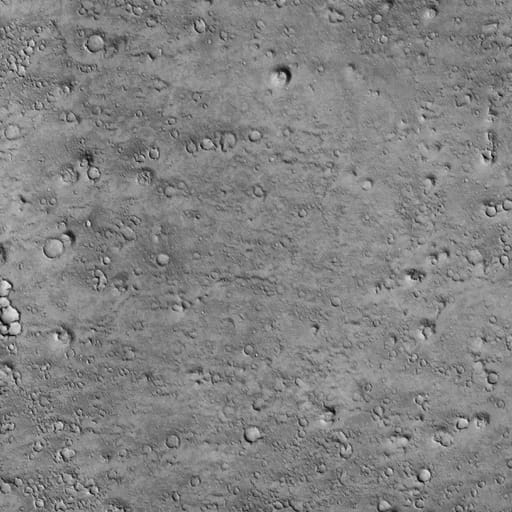
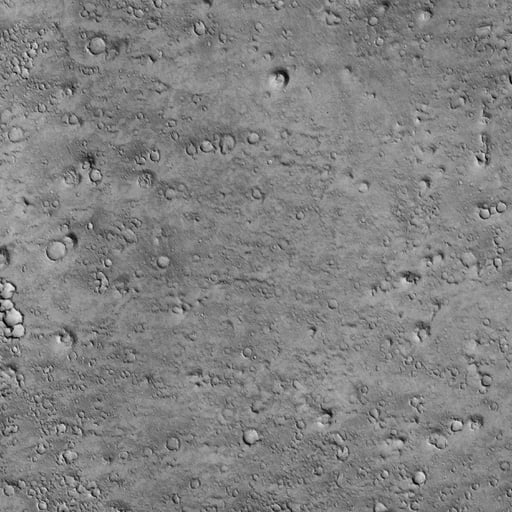
fix(mars): Beagle 2 site point and patch on the Bridges et al. 2017 position, CTX registered to it
Site point and descent profile 11.53 N 90.43 E -> 11.52879 N 90.43139 E (Bridges et al. 2017, Royal
Society Open Science 4:170785; the old point was 107 m away). HiRISE ESP_040363_1915 re-cut there;
the lander is not resolved in that product (nothing distinct at the centre). Regional CTX re-cut
(E088_N08) 140 m north / 35 m west of the site to register with the patch, residual 0 m.
CTX provenance titles say where the window was cut and that it is shifted (no 'traverse midpoint'
for sites without a traverse).

Claude-Session: https://claude.ai/code/session_01DJqN6rY9HUnN1X9JkpPWnW

diff --git a/scripts/hotspots/provenance.ts b/scripts/hotspots/provenance.ts
@@ -117,16 +117,21 @@ export function buildCtxMosaicProvenanceEntry(input: {
   centerLon: number;
   /** 'traverse-midpoint': rover crops are centred on the arc-length midpoint of the traverse (#360), not the site. */
   centreOn?: 'traverse-midpoint';
+  /** The window is cut this far north / east of the nominal centre so it registers with the HiRISE patch. */
+  ctxShiftM?: { north: number; east: number };
 }): ProvenanceEntry {
   const provenancePath = input.outputPath.replace(/^static/, '');
   const id = createHash('sha256').update(provenancePath).digest('hex').slice(0, 16);
   const midpoint = input.centreOn === 'traverse-midpoint';
+  const shifted = input.ctxShiftM
+    ? `, cut ${input.ctxShiftM.north} m north and ${input.ctxShiftM.east} m east of the site so it registers with the HiRISE detail patch`
+    : '';
   const where = `${input.centerLat.toFixed(3)}°N ${input.centerLon.toFixed(3)}°E`;
   return {
     id,
     path: provenancePath,
     source_type: 'derived-mosaic',
-    title: `Murray Lab Global CTX Mosaic V01 tile ${input.tileName} — regional patch centred ${midpoint ? `on the traverse midpoint (${where})` : `at ${where}`}`,
+    title: `Murray Lab Global CTX Mosaic V01 tile ${input.tileName} — regional patch centred ${midpoint ? `on the traverse midpoint (${where})` : `at ${where}`}${shifted}`,
     author:
       'Caltech Murray Lab (J. Dickson et al. 2024) · derived from NASA / JPL-Caltech / MSSS CTX',
     agency: 'NASA',

diff --git a/scripts/fetch-hotspot-imagery.ts b/scripts/fetch-hotspot-imagery.ts
@@ -260,10 +260,14 @@ async function main(): Promise<void> {
             siteId: f.siteId,
             centerLat: f.centre.lat,
             centerLon: f.centre.lon,
-            centreOn:
-              f.centre.lat !== site.lat || f.centre.lon !== site.lon
-                ? 'traverse-midpoint'
-                : undefined,
+            centreOn: existsSync(`static/data/mars-traverses/${f.siteId}.json`)
+              ? 'traverse-midpoint'
+              : undefined,
+            ctxShiftM: (
+              sidecar.entries[f.siteId] as {
+                hotspot_tier2_ctx_shift_m?: { north: number; east: number };
+              }
+            )?.hotspot_tier2_ctx_shift_m,
           });
         })
         .filter((e) => e !== null);
